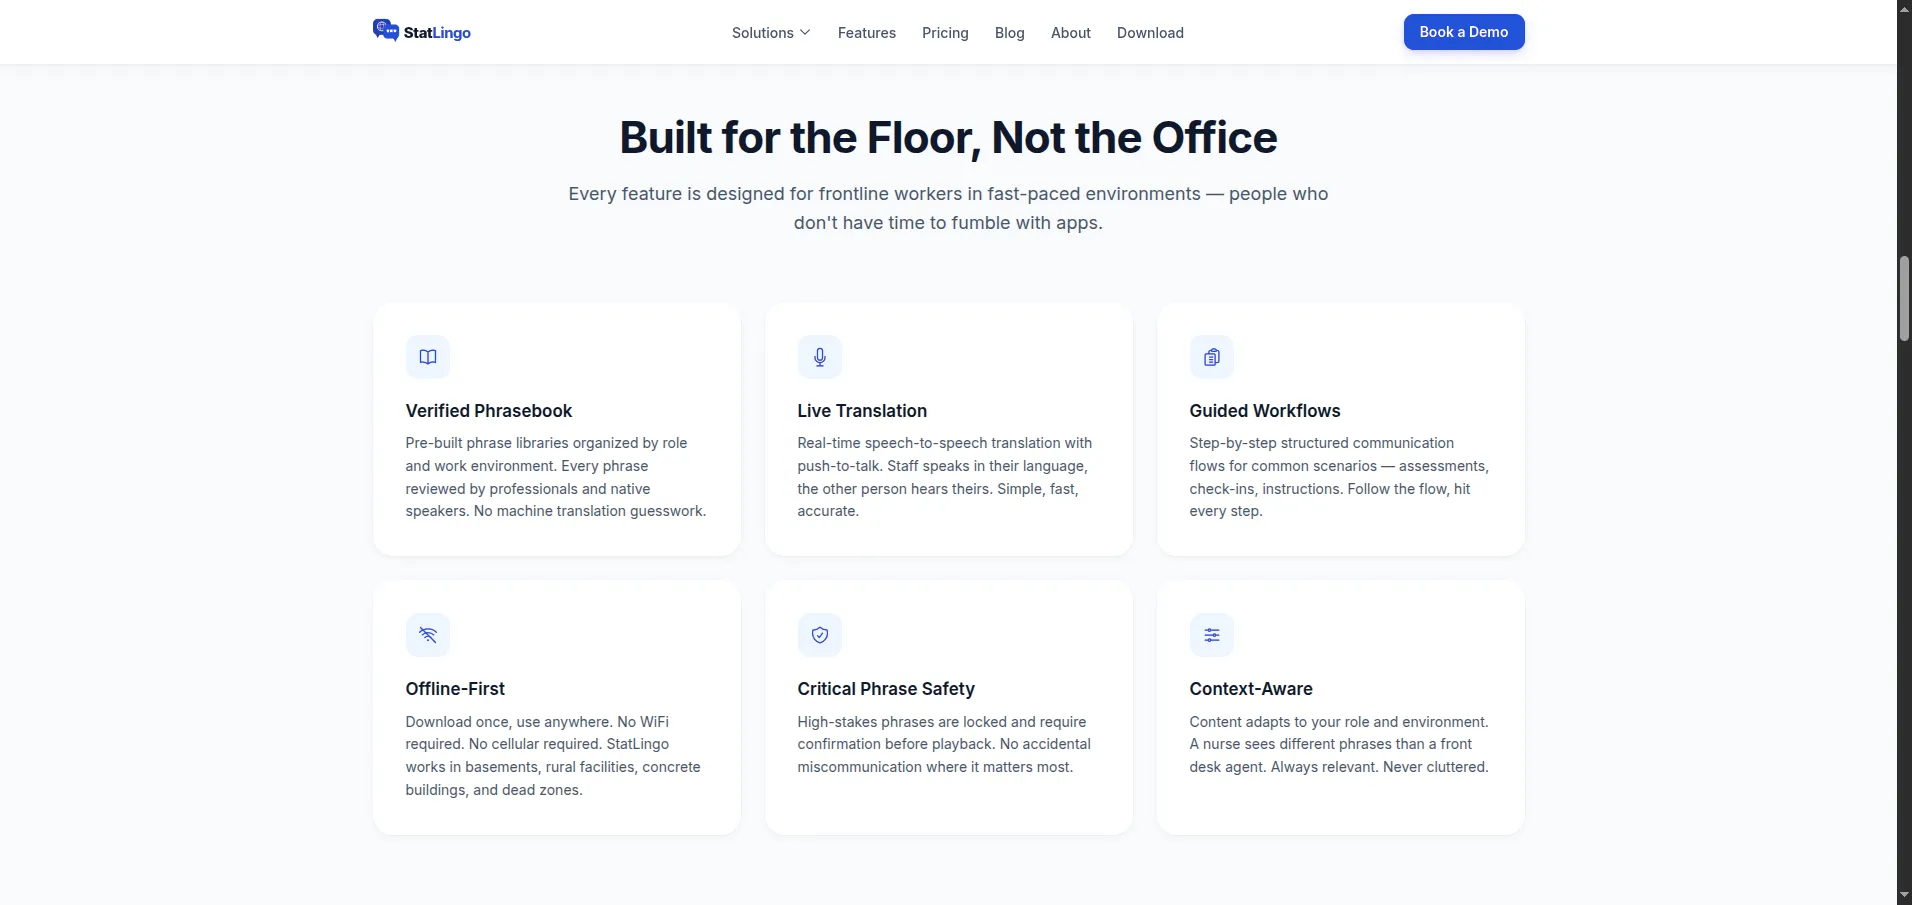
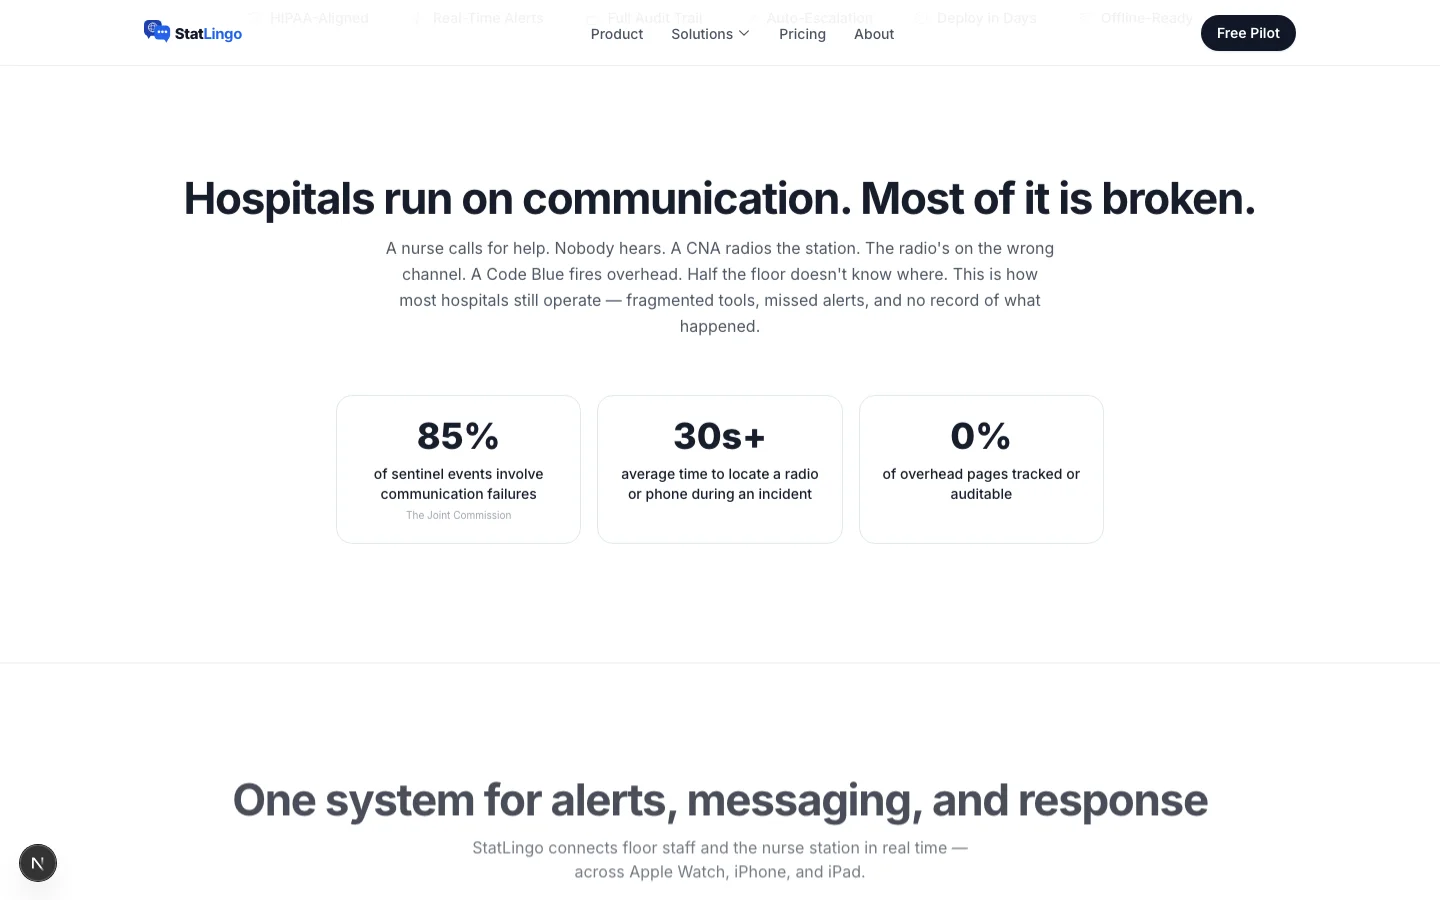
Update StatLingo Website with new screenshots, description, and statlingo.ai link

diff --git a/index.html b/index.html
@@ -622,10 +622,12 @@
         <!-- StatLingo Website -->
         <div class="project reveal">
           <div class="project-info">
-            <h3 class="project-name">StatLingo Website</h3>
+            <h3 class="project-name"><a href="https://statlingo.ai" target="_blank" rel="noopener noreferrer"
+                style="color:inherit;text-decoration:none;">StatLingo Website</a></h3>
             <p class="project-desc">
-              Marketing website for StatLingo platform serving healthcare and hospitality teams. Static-export ready,
-              deployed to Vercel. Showcases product features, pricing, solutions, compliance, and blog.
+              Marketing and product website for StatLingo — a real-time communication platform for healthcare
+              and hospitality frontline teams. Features interactive demos, pricing calculator, industry-specific
+              solution pages, and HIPAA compliance documentation.
             </p>
             <button class="project-expand-btn" onclick="toggleProject(this)">
               Show details <svg fill="none" stroke="currentColor" stroke-width="2" viewBox="0 0 24 24">
@@ -635,17 +637,17 @@
             <div class="project-expand">
               <div class="project-section-title">Features</div>
               <ul class="project-list">
-                <li>Homepage with platform overview, industry selector, features, pricing, and app preview</li>
-                <li>Healthcare & Hospitality solution pages with use cases and compliance info</li>
-                <li>8+ blog articles with category filtering (Healthcare/Hospitality)</li>
-                <li>FAQ (7 sections), Support, Compliance, Privacy Policy, Terms of Service</li>
-                <li>Lead capture forms with industry routing, static export deployment</li>
+                <li>Homepage with hero, trust bar, problem statement, solution overview, and interactive product demo</li>
+                <li>Industry selector with healthcare and hospitality use cases and compliance info</li>
+                <li>Pricing calculator with per-unit and tiered pricing for different facility sizes</li>
+                <li>Comparison section, security/HIPAA section, and lead capture with industry routing</li>
+                <li>Blog with category filtering, FAQ, Support, Privacy Policy, Terms of Service</li>
               </ul>
               <div class="project-section-title">Stack</div>
               <ul class="project-list">
-                <li>Next.js 16 (App Router, SSG), TypeScript for type safety</li>
-                <li>Tailwind CSS v4 with inline theme syntax for responsive design</li>
-                <li>Instrument Sans (display) & Inter (body) fonts</li>
+                <li>Next.js 16 (App Router, SSG), TypeScript, Tailwind CSS v4</li>
+                <li>Framer Motion for scroll-reveal and interactive animations</li>
+                <li>Deployed on Netlify with static export</li>
               </ul>
             </div>
             <div class="project-tech">
@@ -653,7 +655,8 @@
               <span class="project-tech-tag">TypeScript</span>
               <span class="project-tech-tag">Tailwind CSS v4</span>
               <span class="project-tech-tag">React</span>
-              <span class="project-tech-tag">SSG</span>
+              <span class="project-tech-tag">Framer Motion</span>
+              <span class="project-tech-tag">Netlify</span>
             </div>
           </div>
           <div class="project-media">
@@ -666,13 +669,13 @@
               <div class="carousel" data-carousel>
                 <div class="carousel-track">
                   <img
-                    src="https://cdn.jsdelivr.net/gh/chpecson/chpecson.github.io/images/statlingo-website/statlingo-website-1.webp"
+                    src="images/statlingo-website/statlingo-website-1.webp"
                     alt="StatLingo Website" loading="lazy" />
                   <img
-                    src="https://cdn.jsdelivr.net/gh/chpecson/chpecson.github.io/images/statlingo-website/statlingo-website-2.webp"
+                    src="images/statlingo-website/statlingo-website-2.webp"
                     alt="StatLingo Website" loading="lazy" />
                   <img
-                    src="https://cdn.jsdelivr.net/gh/chpecson/chpecson.github.io/images/statlingo-website/statlingo-website-3.webp"
+                    src="images/statlingo-website/statlingo-website-3.webp"
                     alt="StatLingo Website" loading="lazy" />
                 </div>
                 <div class="carousel-nav"></div>